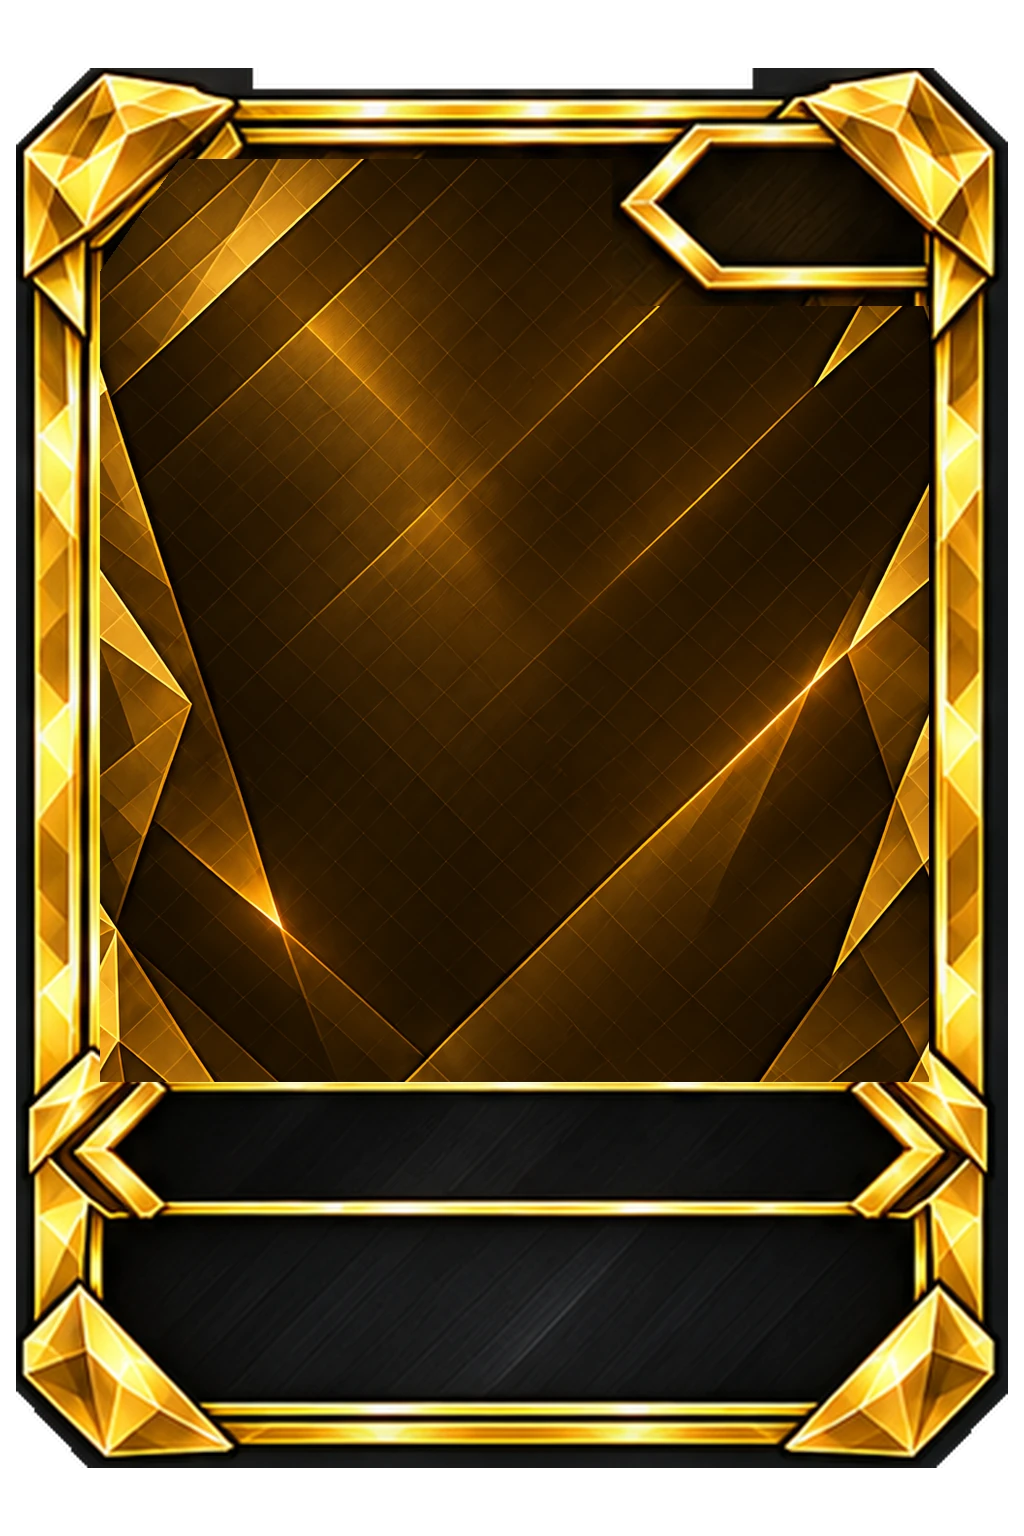
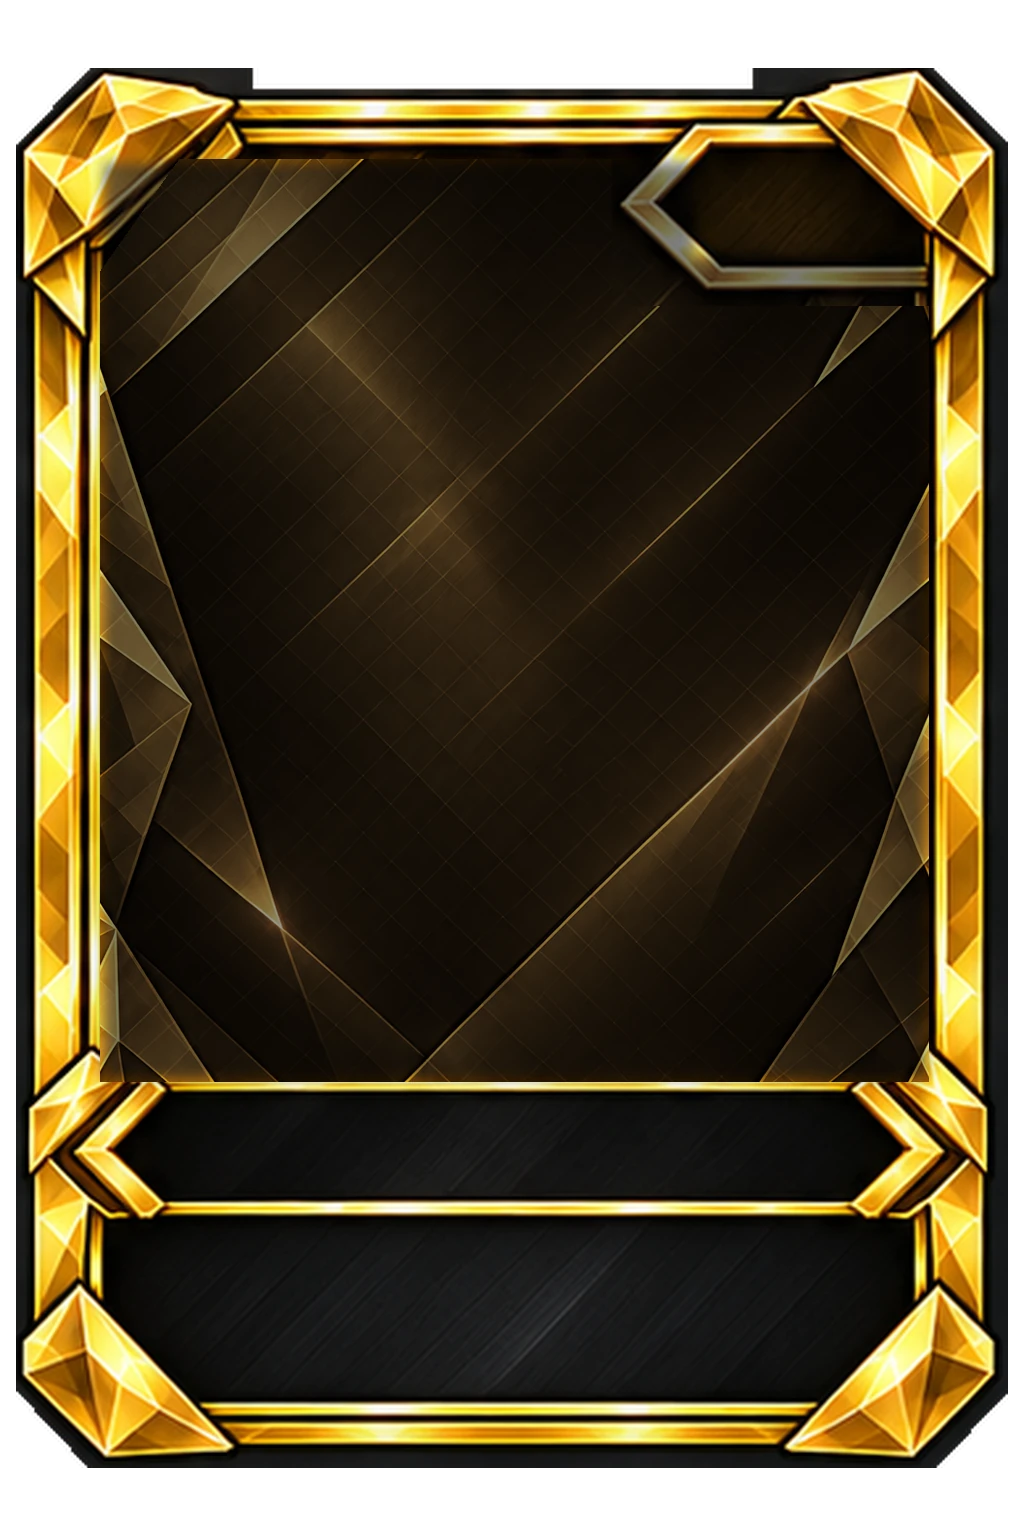
Cadres v2, retouches demandées : visuels plus grands, fonds plus sobres, plus aucun reflet ni lueur
- illustration sur toute la fenêtre (sous le cartouche) avec ombre au sol
- fonds de la fenêtre assombris et désaturés, léger halo derrière le personnage
- textes du bas et du nom agrandis, passif double qui tient dans la case, accents visibles
- reflets, arc-en-ciel, lueurs et particules retirés de la carte (l'inclinaison reste)

Claude-Session: https://claude.ai/code/session_01Nzi4d8Cz5nAUppiV1qqTjq

Changed region(s): [[0.0938, 0.0938, 0.9062, 0.7188]]

diff --git a/gymdeck-prototype/gymdeck/src/app/globals.css b/gymdeck-prototype/gymdeck/src/app/globals.css
@@ -87,20 +87,23 @@ h2.section { font-family: var(--display); font-style: italic; font-weight: 800; 
 .card > img.frame { position: absolute; inset: 0; width: 100%; height: 100%; display: block; }
 /* cadres v2 (2:3) : les zones viennent de CARD_LAYOUT, toutes à 100 % du même conteneur, sans recadrage */
 .card .artwin { position: absolute; inset: 0; overflow: hidden; pointer-events: none; }
-.card .art { position: absolute; object-fit: contain; object-position: center bottom; }
-.card .badge { position: absolute; display: grid; place-items: center; font-family: var(--display); font-style: italic; font-weight: 800; font-size: 6.6cqw; line-height: 1; padding-right: 1.6cqw; }
-.card .nameband { position: absolute; display: flex; align-items: center; justify-content: center; text-align: center; font-family: var(--display); font-style: italic; font-weight: 800; text-transform: uppercase; font-size: 6.4cqw; line-height: .98; padding: 0 2cqw; overflow: hidden; }
-.card .nameband > span { display: -webkit-box; -webkit-line-clamp: 2; -webkit-box-orient: vertical; overflow: hidden; overflow-wrap: anywhere; }
+.card .art { position: absolute; object-fit: contain; object-position: center bottom; filter: drop-shadow(0 1.2cqw 1.6cqw rgba(0,0,0,.55)); }
+.card .artwin .floor { position: absolute; border-radius: 50%; background: radial-gradient(closest-side, rgba(0,0,0,.6), transparent); }
+.card .badge { position: absolute; display: grid; place-items: center; font-family: var(--display); font-style: italic; font-weight: 800; font-size: 7.4cqw; line-height: 1; padding-right: 1.6cqw; }
+.card .nameband { position: absolute; display: flex; align-items: center; justify-content: center; text-align: center; font-family: var(--display); font-style: italic; font-weight: 800; text-transform: uppercase; font-size: 7cqw; line-height: .98; padding: 0 2cqw; overflow: hidden; }
+.card .nameband > span { line-height: 1.15; padding-top: .08em; display: -webkit-box; -webkit-line-clamp: 2; -webkit-box-orient: vertical; overflow: hidden; overflow-wrap: anywhere; }
 .card .cstats { position: absolute; display: grid; grid-template-columns: auto auto 1fr; align-items: center; align-content: center; column-gap: 1.4cqw; row-gap: .4cqw; }
-.card .cstats svg { width: 4.6cqw; height: 4.6cqw; }
-.card .cstats .lab { font-family: var(--display); font-style: italic; font-weight: 700; font-size: 3.6cqw; }
-.card .cstats .val { font-family: var(--display); font-style: italic; font-weight: 800; font-size: 6.6cqw; line-height: .95; text-align: right; }
+.card .cstats svg { width: 5cqw; height: 5cqw; }
+.card .cstats .lab { font-family: var(--display); font-style: italic; font-weight: 700; font-size: 3.9cqw; }
+.card .cstats .val { font-family: var(--display); font-style: italic; font-weight: 800; font-size: 7.4cqw; line-height: .95; text-align: right; }
 .card .cability { position: absolute; display: grid; place-items: center; }
 .card .cability .capdot { width: 100%; height: 100%; }
 .card .cright { position: absolute; display: flex; flex-direction: column; justify-content: center; align-items: center; text-align: center; font-family: var(--display); font-style: italic; color: #fff; line-height: 1; overflow: hidden; }
-.card .cright .capname { font-weight: 800; font-size: 4.3cqw; line-height: 1.02; text-transform: uppercase; white-space: normal; padding: 0 .6cqw; }
-.card .cright small { font-weight: 800; font-size: 3.1cqw; letter-spacing: .08em; color: var(--pc, var(--lime)); }
-.card .cright b { font-weight: 800; font-size: 4.4cqw; line-height: 1.05; white-space: nowrap; }
+.card .cright .capname { font-weight: 800; font-size: 4.9cqw; line-height: 1.02; text-transform: uppercase; white-space: normal; padding: 0 .6cqw; }
+.card .cright small { font-weight: 800; font-size: 3.4cqw; letter-spacing: .08em; color: var(--pc, var(--lime)); }
+.card .cright b { font-weight: 800; font-size: 4.9cqw; line-height: 1.05; white-space: nowrap; }
+.card .cright.both small { font-size: 3cqw; }
+.card .cright.both b { font-size: 4.3cqw; line-height: 1.08; }
 .card .cright em { font-weight: 600; font-size: 3cqw; color: rgba(255,255,255,.78); }
 .card .count { position: absolute; right: 9%; top: 14%; padding: 1cqw 3.4cqw; border-radius: 99px; background: rgba(0,0,0,.72); border: 1px solid rgba(255,255,255,.25); font-family: var(--display); font-weight: 800; font-size: 8cqw; }
 

diff --git a/gymdeck-prototype/gymdeck/src/components/Card.tsx b/gymdeck-prototype/gymdeck/src/components/Card.tsx
@@ -21,6 +21,12 @@ export function passiveLabel(p: Passive): string {
 /** Image du cadre v2 (carte vierge complète : fond + bordure, kit du 24 oct. 2026). */
 export const frameSrc = (r: Rarity) => `/assets/frames/v2/${r}.webp`;
 
+/** Zone de l'illustration : toute la largeur de la fenêtre, du haut (sous le cartouche) jusqu'au bandeau du nom. */
+const artBox = (L: { art: { x: number; y: number; w: number; h: number }; title: { y: number } }) => {
+  const top = L.art.y - 0.055;
+  return { x: 0.105, y: top, w: 0.79, h: L.title.y - 0.012 - top };
+};
+
 const pos = (b: { x: number; y: number; w: number; h: number }): React.CSSProperties => ({
   left: `${b.x * 100}%`, top: `${b.y * 100}%`, width: `${b.w * 100}%`, height: `${b.h * 100}%`,
 });
@@ -43,13 +49,14 @@ export function Card({ card, count, holo = true, cap = true, hideStats = false }
       <img className="frame" src={frameSrc(card.rarity)} alt="" draggable={false} decoding="async" />
       {/* fenêtre de l'illustration : le personnage et son matériel ne débordent jamais sur le nom, la rareté ou le panneau du bas */}
       <div className="artwin" style={{ clipPath: L.clip }}>
+        <i className="floor" style={{ left: "18%", width: "64%", top: `${(L.title.y - 0.05) * 100}%`, height: "6%" }} aria-hidden />
         <img
           className="art"
           src={ex.image}
           alt={ex.name}
           draggable={false}
           style={{
-            ...pos(L.art),
+            ...pos(artBox(L)),
             ...(ex.fit ? { transform: `translate(${ex.fit.x ?? 0}%, ${ex.fit.y ?? 0}%) scale(${ex.fit.s ?? 1})` } : {}),
           }}
         />
@@ -65,12 +72,12 @@ export function Card({ card, count, holo = true, cap = true, hideStats = false }
         <Shield /><span className="lab">DEF</span><span className="val">{hideStats ? "?" : card.def}</span>
       </div>
       {cap && <span className="cability" style={pos(L.ability)}><CapDot card={card} /></span>}
-      <div className={`cright ${top ? "ispassive" : ""}`} style={{ ...pos(L.right), ["--pc" as string]: color }}>
+      <div className={`cright ${top ? "ispassive" : ""} ${top && card.passive?.type === "BOTH" ? "both" : ""}`} style={{ ...pos(L.right), ["--pc" as string]: color }}>
         {top && card.passive ? (
           <>
-            <small>PASSIF</small>
+            <small>{card.passive.type === "BOTH" ? "PASSIF · DECK" : "PASSIF"}</small>
             {passiveLines(card.passive).map((l) => <b key={l}>{l}</b>)}
-            <em>du deck</em>
+            {card.passive.type !== "BOTH" && <em>du deck</em>}
           </>
         ) : cap ? (
           <b className="capname" style={{ color: capa.color }}>{capa.name}</b>

diff --git a/gymdeck-prototype/gymdeck/src/app/card-fx.css b/gymdeck-prototype/gymdeck/src/app/card-fx.css
@@ -106,3 +106,9 @@
 .fxgrid figure { margin: 0; }
 .fxgrid figcaption { margin-top: 12px; font-size: 14px; color: #cfd6e8; text-align: center; }
 .fxgrid figcaption b { font-family: var(--display); font-style: italic; font-size: 18px; margin-right: 4px; }
+
+/* ═════════ Cadres v2 (25 oct. 2026, demande d'Adrien) : plus aucun reflet, arc-en-ciel, lueur ni particule sur la carte ═════════
+   Les cartes rares gardent seulement l'inclinaison au doigt / à la souris. Supprimer ce bloc pour retrouver les anciens effets. */
+.cfx-sheen, .cfx-rainbow, .cfx-aura, .cfx-sparks, .fxl-sheen, .fxl-rainbow { display: none !important; }
+.cfx .cfx-in, .cfx-mat .card, .card.fxl-rare, .card.fxl-metal, .card.fxl-holo, .card.fxl-mat > img.frame, .card.fxl-mat .art { filter: none !important; }
+.card.fxl-mat .art, .cfx-mat .card .art { filter: drop-shadow(0 1.2cqw 1.6cqw rgba(0,0,0,.55)) !important; }
